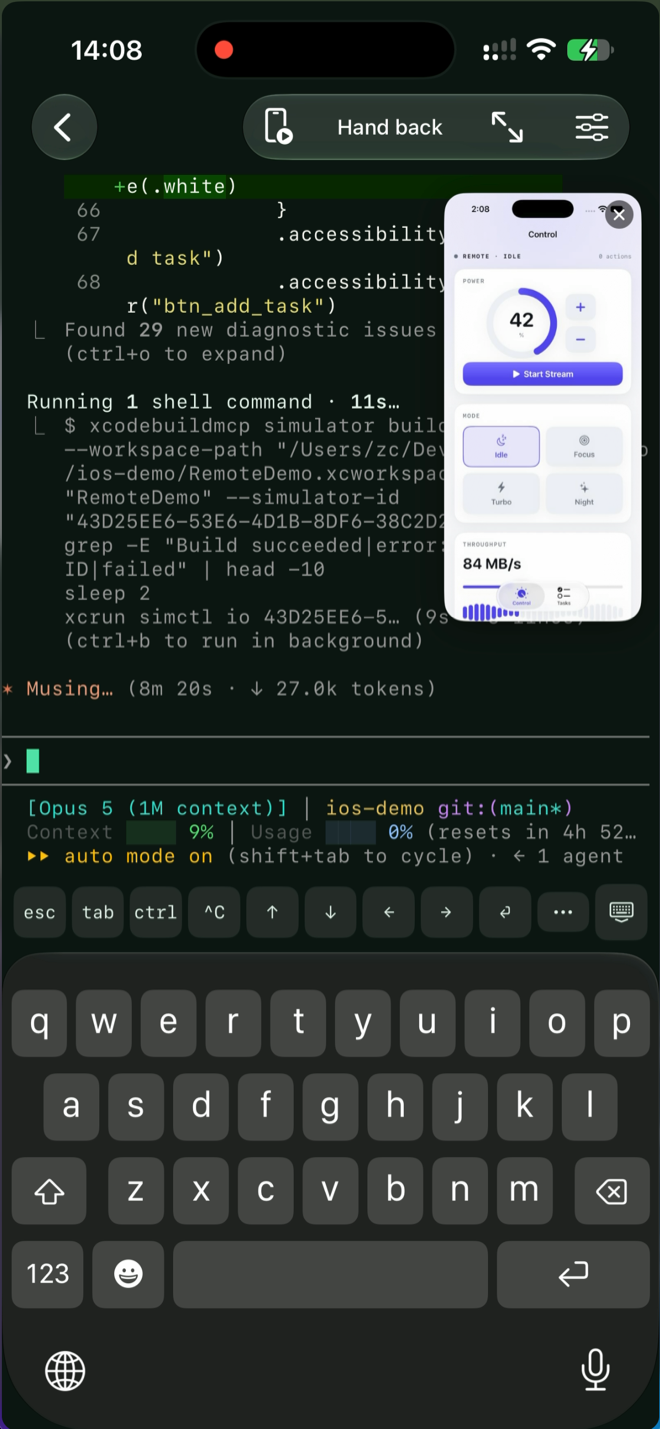
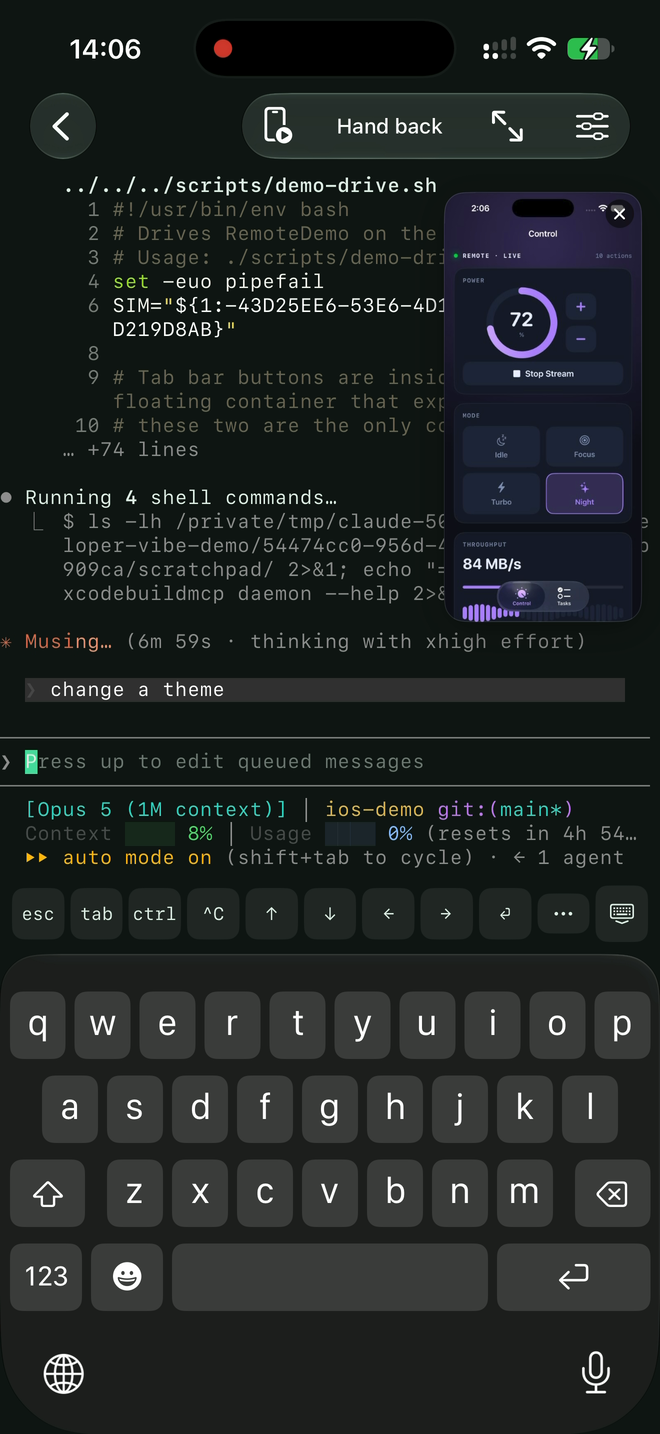
docs: place live-session screenshot beside demo video, restore tour image
Claude-Session: https://claude.ai/code/session_0182EJWJxEHTLvJhQzBQhKRi

diff --git a/README.zh-CN.md b/README.zh-CN.md
@@ -33,6 +33,9 @@
 
 https://github.com/user-attachments/assets/6f9ccfb3-61d4-4d12-b270-c3a71f0fe4ae
 
+<p align="center">
+  <img src="docs/assets/mobile-live-session.png" alt="Termite iPhone 客户端远程操作 Claude Code 会话，右上角画中画实时预览 iOS 模拟器" width="360">
+</p>
 
 > 视频演示 iPhone 通过受信任的局域网或 Tailscale 私有网络连接 Mac，实时查看并操作 Mac 上运行的 iOS 模拟器。兼容性：Mac 端需要 **macOS 26.0 或更高版本**；移动端支持 **iOS / iPadOS 17.0 或更高版本**，兼容 iPhone 与 iPad。
 

diff --git a/README.md b/README.md
@@ -33,6 +33,9 @@
 
 https://github.com/user-attachments/assets/cd18f5d0-4465-4f60-9342-07e29974a225
 
+<p align="center">
+  <img src="docs/assets/mobile-live-session.png" alt="Termite iPhone client driving a live Claude Code session, with the iOS Simulator mirrored picture-in-picture" width="360">
+</p>
 
 > The video shows an iPhone connecting to a Mac over a trusted LAN or Tailscale private network to preview and control an iOS Simulator in real time. Compatibility: **macOS 26.0 or later** on the Mac; **iOS / iPadOS 17.0 or later** on iPhone and iPad.
 
